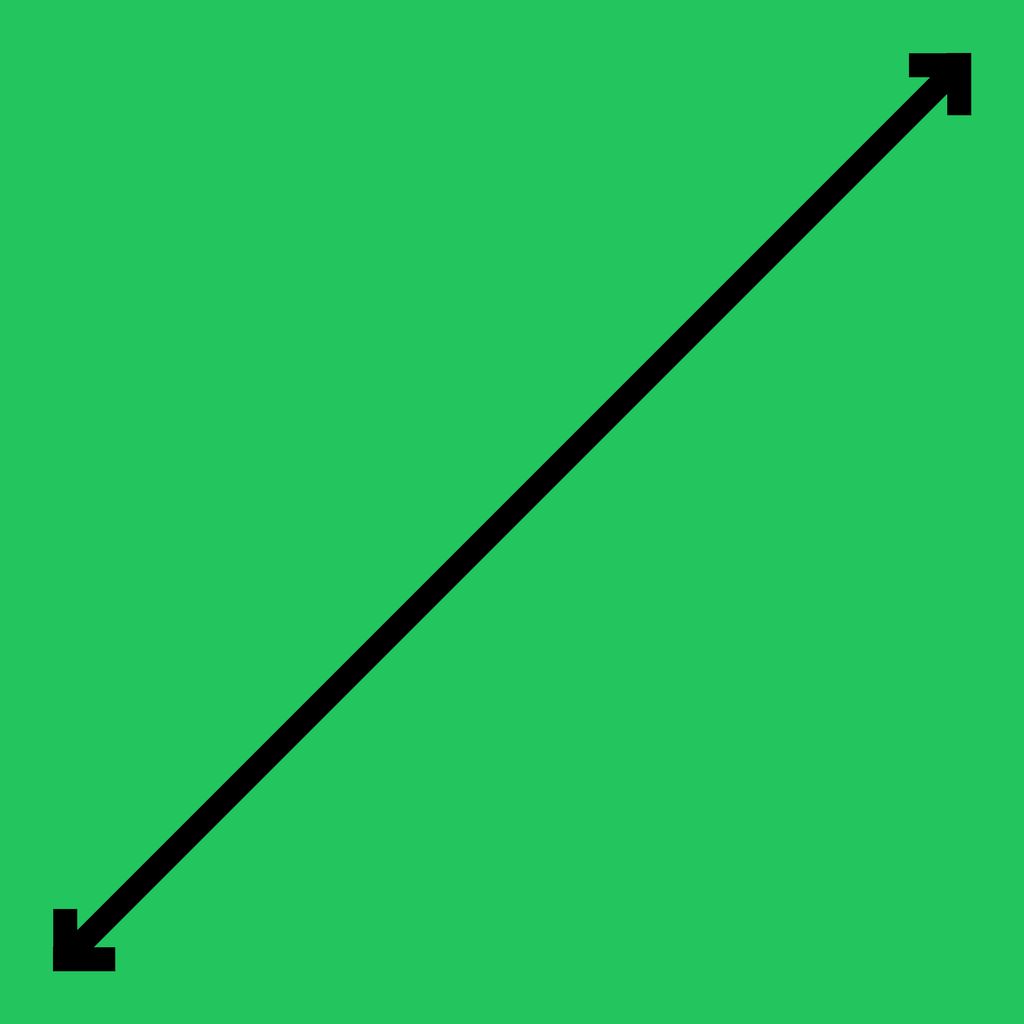
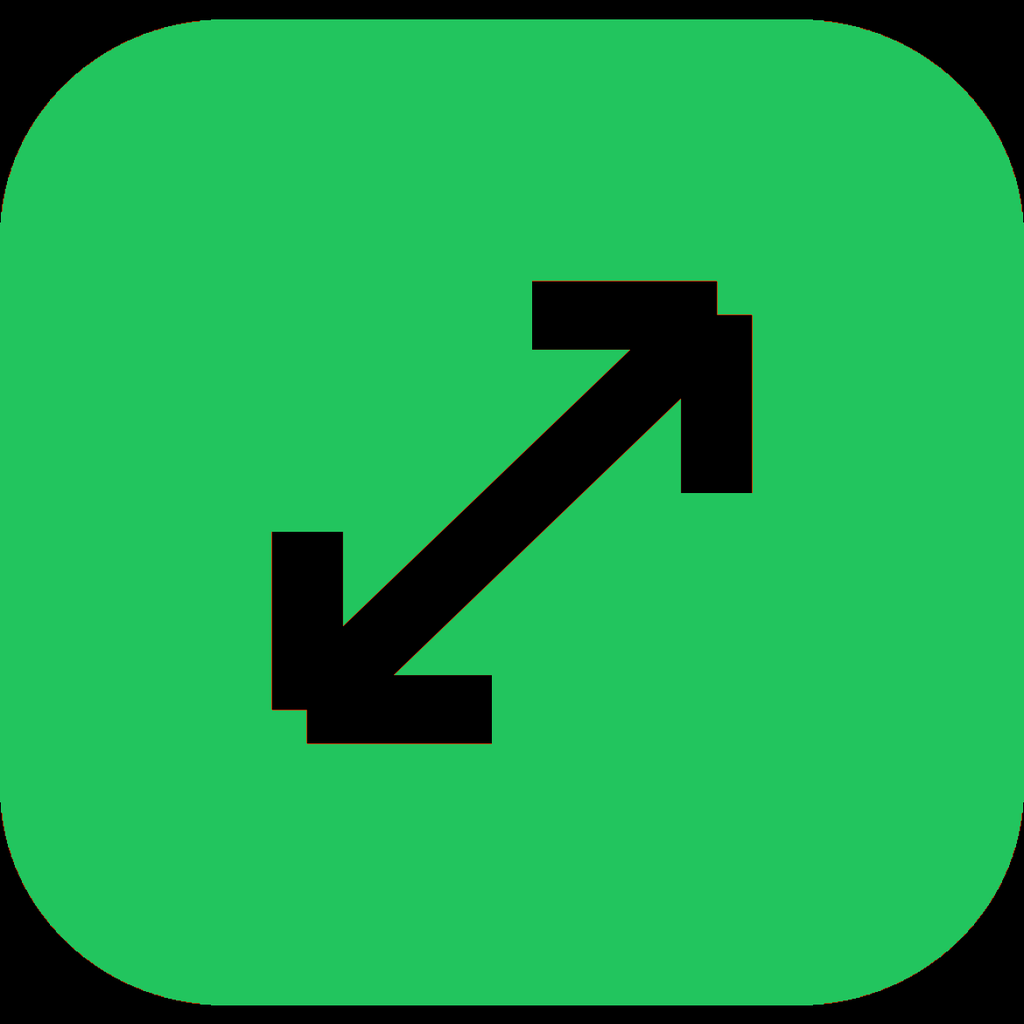
auto-commit for a08f6d14-4e4a-4bf1-a423-6d3022f86198

Changed region(s): [[0.0, 0.0, 1.0, 1.0]]

diff --git a/mesure-chassis/poc-aruco/recolor_icon.py b/mesure-chassis/poc-aruco/recolor_icon.py
@@ -1,0 +1,62 @@
+"""
+Swap the orange (#FF5500) background of the user's reference icon
+with green (#22C55E) — without touching the black arrow.
+
+Output: 1024x1024 PNG ready for the Emergent iOS build form.
+"""
+from PIL import Image
+import numpy as np
+
+SRC = "/tmp/orig_orange.png"
+DST_PRIMARY = "/app/mesure-chassis/poc-aruco/icon_green_1024.png"
+DST_COPY = "/app/frontend/assets/icon_green_1024.png"
+
+GREEN = (34, 197, 94)  # #22C55E
+
+
+def main() -> None:
+    img = Image.open(SRC).convert("RGB")
+    arr = np.array(img)
+    r, g, b = arr[:, :, 0], arr[:, :, 1], arr[:, :, 2]
+
+    # Identify orange pixels (anything that's "warm orange-ish")
+    orange = (r > 200) & (g > 30) & (g < 180) & (b < 80)
+    arr[orange] = GREEN
+
+    # Crop tight around the icon (non-black region) to maximise resolution
+    non_black = (r > 30) | (g > 30) | (b > 30)
+    ys, xs = np.where(non_black)
+    y0, y1 = ys.min(), ys.max()
+    x0, x1 = xs.min(), xs.max()
+
+    # Square crop centered on the icon, with a tiny black margin (matches
+    # the look of the original screenshot the user provided).
+    cy = (y0 + y1) // 2
+    cx = (x0 + x1) // 2
+    side = int(max(y1 - y0, x1 - x0) * 1.04)  # ~4% padding
+    h, w = arr.shape[:2]
+    cx0 = max(0, cx - side // 2)
+    cy0 = max(0, cy - side // 2)
+    cx1 = min(w, cx0 + side)
+    cy1 = min(h, cy0 + side)
+    # re-snap if we hit a border
+    cx0 = max(0, cx1 - side)
+    cy0 = max(0, cy1 - side)
+
+    cropped = Image.fromarray(arr).crop((cx0, cy0, cx1, cy1))
+    icon = cropped.resize((1024, 1024), Image.LANCZOS)
+
+    for p in (DST_PRIMARY, DST_COPY):
+        icon.save(p, "PNG", optimize=True)
+        print(f"Wrote {p}")
+
+    # Quick verification
+    out = Image.open(DST_PRIMARY)
+    print(f"Final size: {out.size}, mode: {out.mode}")
+    print(f"  center px (512,512) = {out.getpixel((512, 512))}")
+    print(f"  corner px (50,50)   = {out.getpixel((50, 50))}")
+    print(f"  bg sample (300,300) = {out.getpixel((300, 300))}")
+
+
+if __name__ == "__main__":
+    main()
